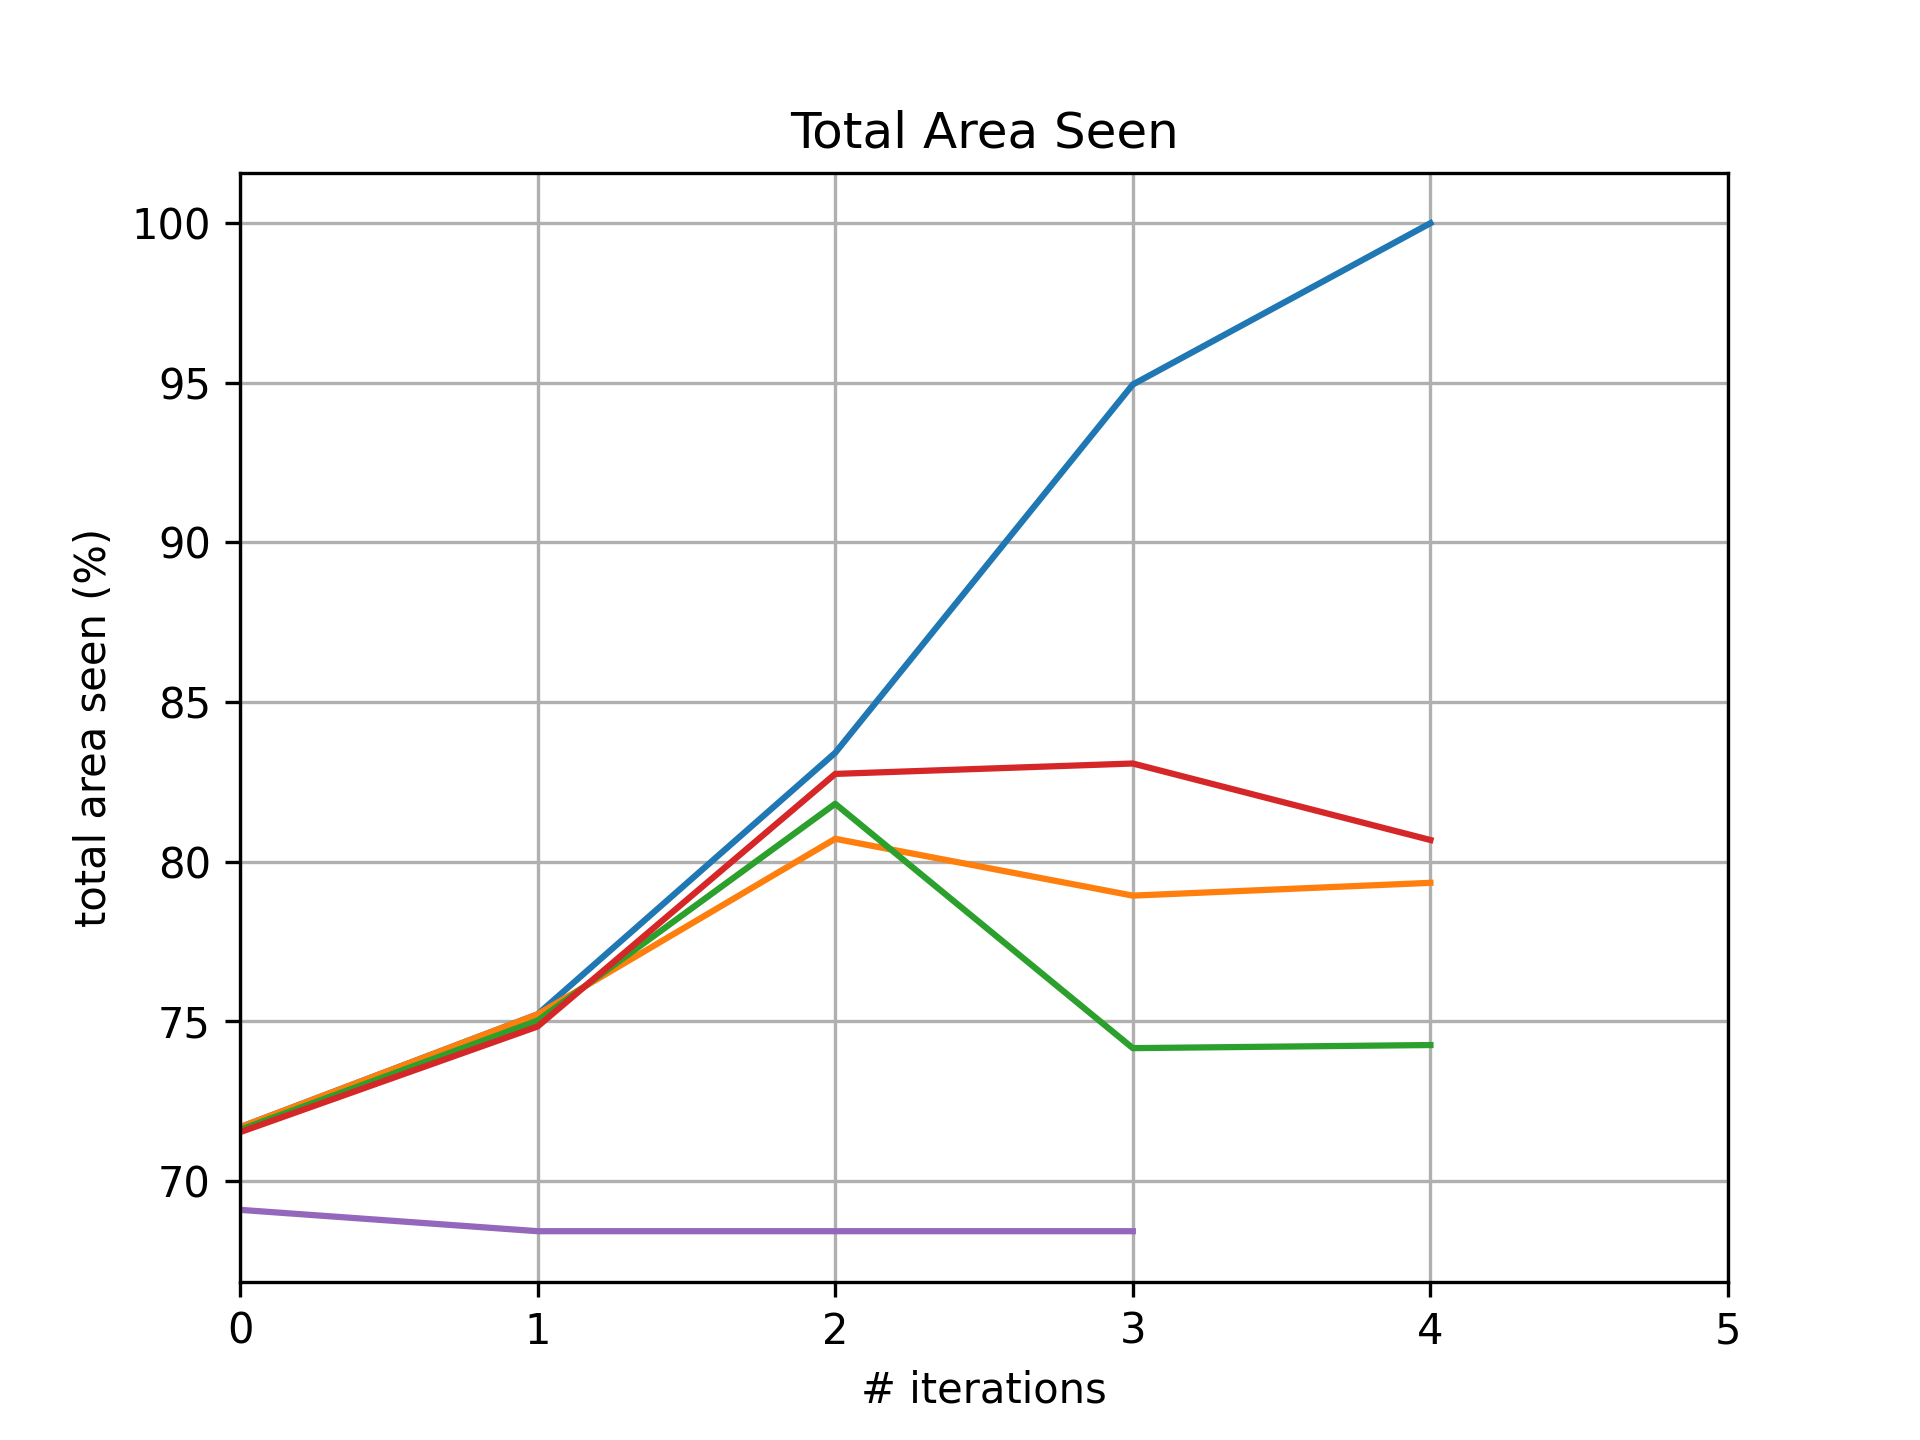
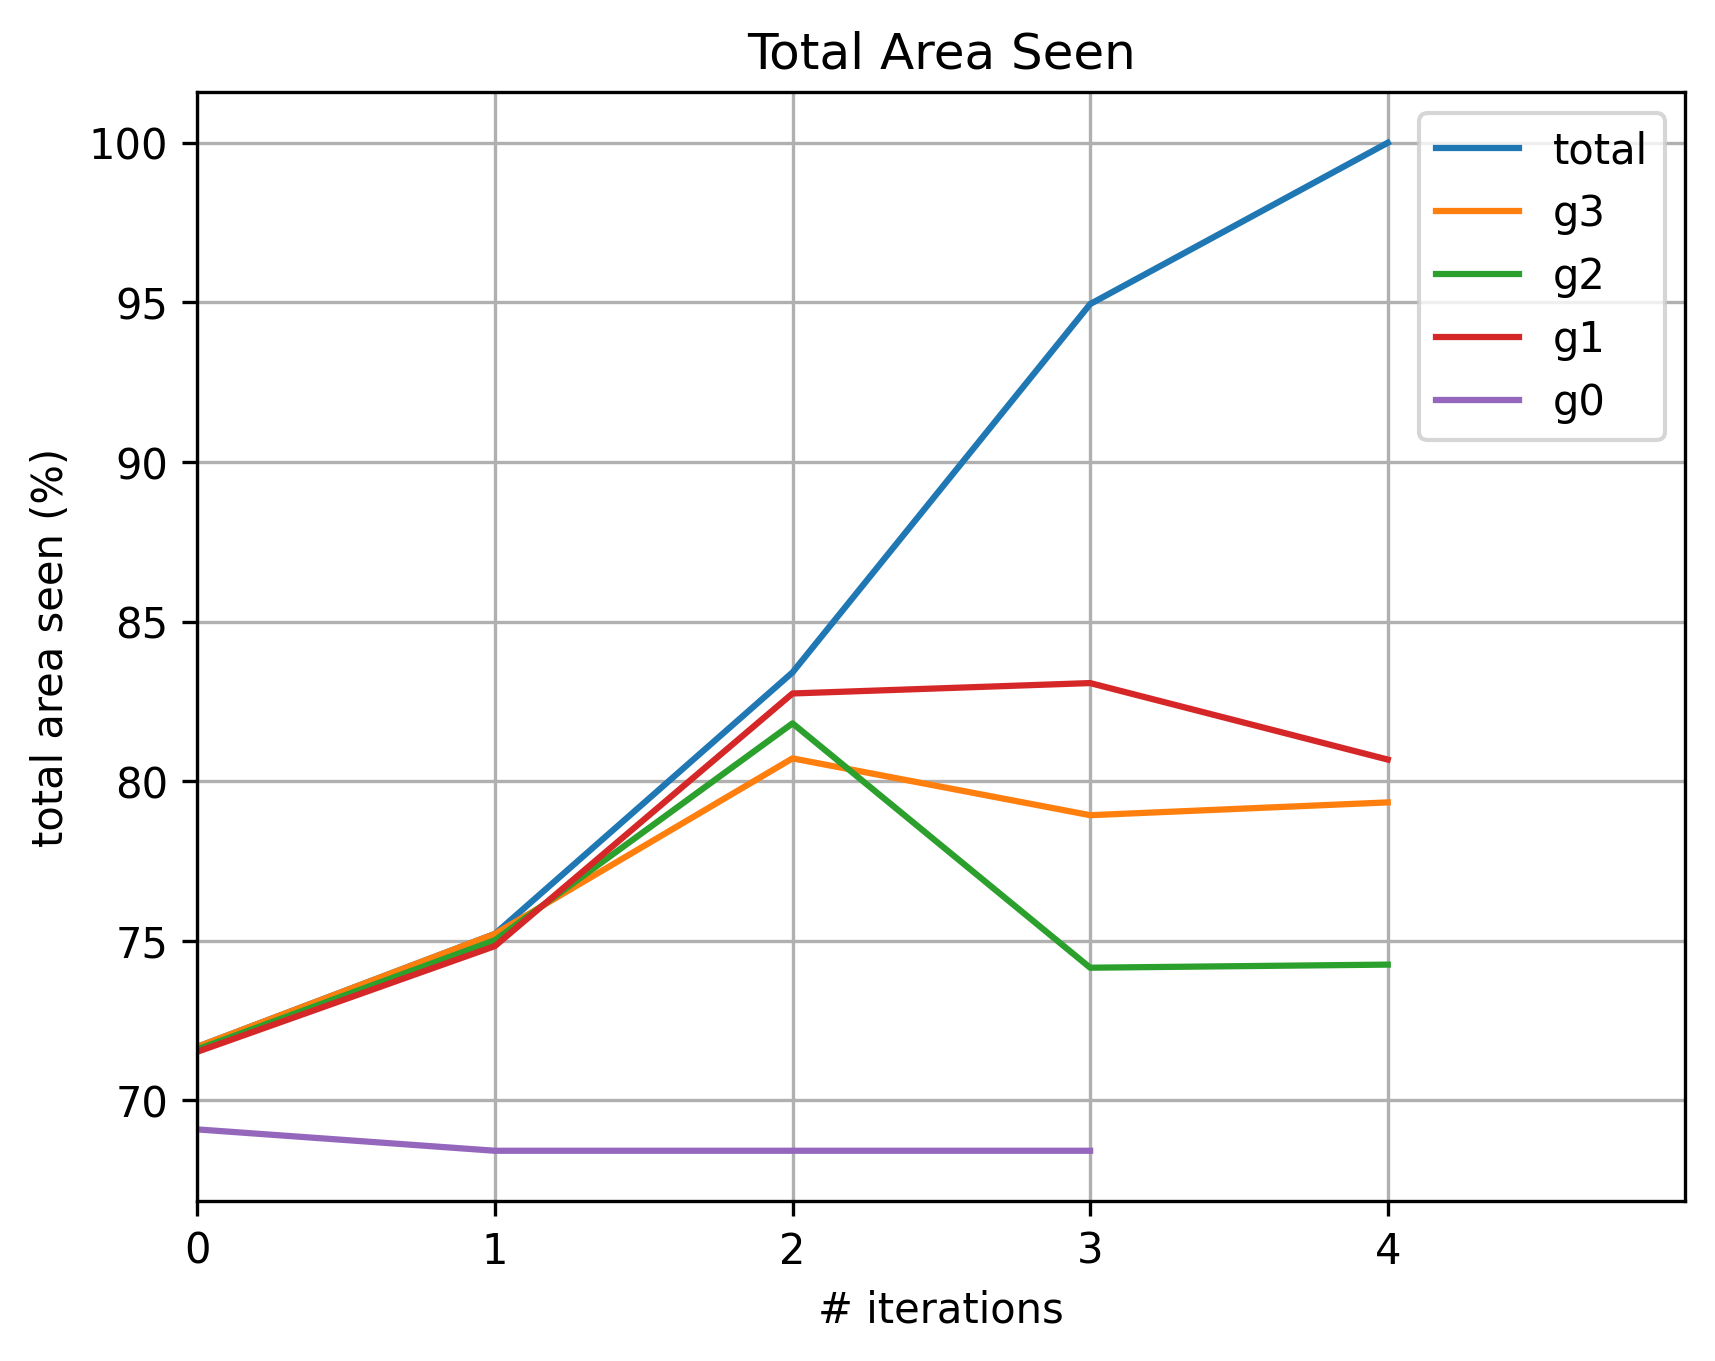
fix momentum correctness

diff --git a/doc/4_experiments.tex b/doc/4_experiments.tex
@@ -24,35 +24,34 @@ We will use fixed hyperparameters for all the runs. This will allow us to focus 
 \subsubsection{Without Momentum}
 In this section we will discuss the impact momentum has on the overall behaviour of the algorithm. As introduced in Section \ref{sec:momentum}, momentum takes into account the position history of the guards. In this way, the overall trajectory of a guard is smoothened out.
 
-A suggestive way to observe this is with the comb polygon with five teeth from Figure \ref{fig:comb2}.
+A suggestive way to observe this is with the arbitrary polygon from Figure \ref{fig:random}. The polygon requires a minimum of 3 guards to be fully seen. For this reason, we will run the algorithm with only 3 guards.
 
 \begin{figure}[h!]
     \centering
-    \includegraphics[width = 0.5\textwidth]{experiments/comb2.png}
-    \caption{Polygon in the shape of a comb with five teeth.}
-    \label{fig:comb2}
+    \includegraphics[width = 0.5\textwidth]{experiments/random.png}
+    \caption{Arbitrarily shaped polygon.}
+    \label{fig:random}
 \end{figure}
 
-We will compare how the guards move when we are using all the heuristics to when we are not using momentum. The guards will have a learning rate $\alpha = 0.4$. They will start at the same fixed position in both cases.
+We will compare how the guards move when we are using all the heuristics to when we are not using momentum. The guards will have a learning rate $\alpha = 0.2$. They will start at the same fixed position in both cases.
 
-Figure \ref{fig:no_momentum} displays the area seen per iteration for the comb polygon with five teeth. Both the total area seen and the individual area seen by each are shown. Starting with 80\% total area seen, the guards are eventually optimally placed in a position from which the whole polygon is seen. Nonetheless, using momentum clearly makes a difference in Subfigure \ref{fig:no_momentum1}, than when not using it in Subfigure \ref{fig:no_momentum2}. Using momentum allows the guards to keep a steady trajectory towards their optimum. In Subfigure \ref{fig:no_momentum2} we can observe how each guard has a more erratic direction of movement, with frequent peaks and lows. Subfigure \ref{fig:no_momentum1} displays a more smoothened out trajectory for each guard. In this way, momentum allows the total area seen to steadily increase, whereas without it the total area seen displays some setbacks before the optimum is reached.
-Additionally, we reckon that because guards are holding a steadier trajectory, they are more likely to achieve the optimum in less iterations (in this example, 4). When not using momentum, the number of iterations increases substantially to 14.
-
-Therefore, momentum poses a significant improvement and speedup to the overall run of the gradient descent implementation.
+Figure \ref{fig:no_momentum} displays the area seen per iteration for the arbitrary polygon Both the total area seen and the individual area seen by each are shown. Starting with almost the whole area seen, the guards are eventually optimally placed in a position from which the whole polygon is seen. Nonetheless, using momentum clearly makes a difference in Subfigure \ref{fig:no_momentum1}, than when not using it in Subfigure \ref{fig:no_momentum2}. Using momentum allows the overall seen area to keep a steady trajectory towards its maximum. Additionally, guards quickly find their optimum in only 4 iterations, without many oscillations. In Subfigure \ref{fig:no_momentum2} however we can observe how the total area fluctuates. The guards also display large jumps close to iterations 5 and 20. These jumps cause the overall progress towards the optimum to be less stable. For example, when guard 2 has a sudden drop in the area it sees around iteration 5, the total area seen naturally drops as well, and only recovers after iteration 20, when guard 0 makes another large jump. This behaviour also suggests that the movement of one guard can heavily influence others, resulting in a noisy behaviour and in a higher number of iterations.
+% Subfigure \ref{fig:no_momentum1} displays a more smoothened out trajectory for each guard. 
+Therefore, it becomes clearer how momentum allows the smoothening of noisy guard movements. Additionally, we reckon that because guards are holding a steadier trajectory, they are more likely to achieve the optimum in less iterations (in this example, 3). When not using momentum, the number of iterations increases substantially to 24. Momentum thus is a crucial improving heuristic to our whole algorithm, both in speedup as well as in the smootheness of the process.
 
 \begin{figure}[h!]
     \centering
     \begin{subfigure}{0.45\textwidth}
-        \includegraphics[width = \textwidth]{experiments/area_comb2_all.png}
+        \includegraphics[width = \textwidth]{experiments/area_random_all.png}
         \caption{All heuristics.}
         \label{fig:no_momentum1}
     \end{subfigure}
     \begin{subfigure}{0.45\textwidth}
-        \includegraphics[width = \textwidth]{experiments/area_comb2_no_momentum.png}
+        \includegraphics[width = \textwidth]{experiments/area_random_no_momentum.png}
         \caption{No momentum.}
         \label{fig:no_momentum2}
     \end{subfigure}
-    \caption{Total area seen per iteration for the comb polygon with five teeth.}
+    \caption{Total area seen per iteration for an arbitrary polygon guarded by 3 guards.}
     \label{fig:no_momentum}
 \end{figure}
 
@@ -66,7 +65,7 @@ A suggestive way to observe how well Line Search works is with the comb polygon 
     \centering
     \includegraphics[width = 0.5\textwidth]{experiments/comb.png}
     \caption{Polygon in the shape of a comb with four teeth.}
-    \label{fig:comb}
+    % \label{fig:comb}
 \end{figure}
 
 We will compare how the guards move when we are using all the heuristics to when we are not using line search. The guards will have a learning rate $\alpha = 0.4$ for the case when line search is used, and $\alpha = 0.6$ for when it is not used. They will start at the same fixed position in both cases.
@@ -92,11 +91,11 @@ Therefore, we reckon that line search significantly and more efficiently speeds 
     \label{fig:no_line_search}
 \end{figure}
 
-- momentum
+% - momentum
 - reflex vertex pull
     - onto reflex vertex
     - pull Capping
-- line search
+% - line search
 - reflex area
 - hidden gradient
 - angle behind reflex vertex
